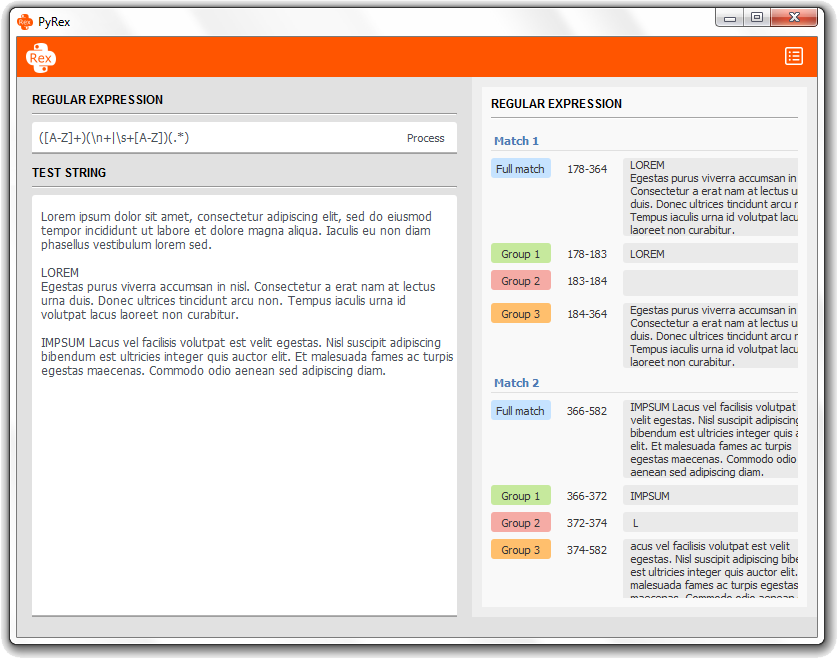
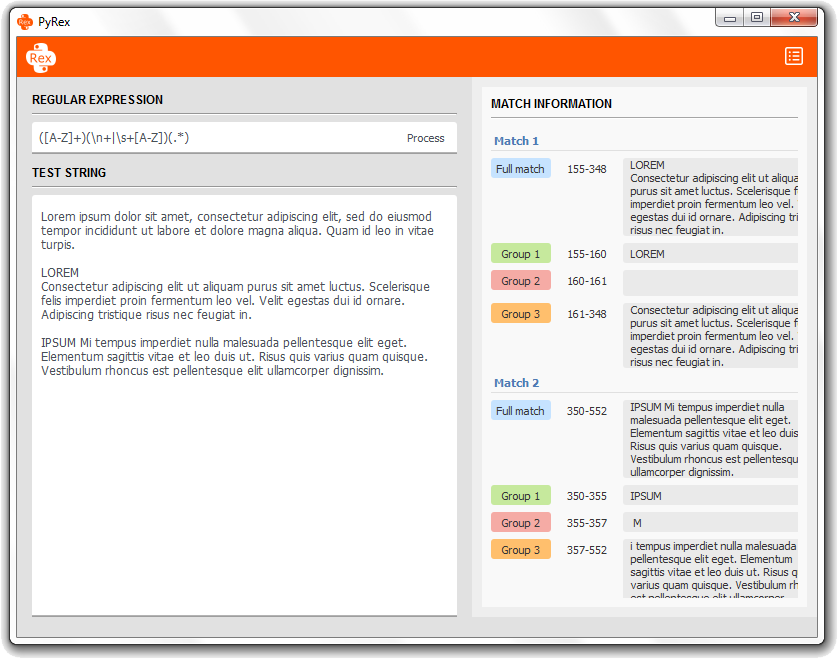
Add files via upload
Match information label renamed

diff --git a/mainGUI.py b/mainGUI.py
@@ -360,7 +360,7 @@ class Ui_MainWindow(object):
         self.ProcessPushButton.setShortcut(_translate("MainWindow", "Return"))
         self.label_2.setText(_translate("MainWindow", "TEST STRING"))
         self.TestStringTextEdit.setPlaceholderText(_translate("MainWindow", "insert your test string here"))
-        self.label_3.setText(_translate("MainWindow", "REGULAR EXPRESSION"))
+        self.label_3.setText(_translate("MainWindow", "MATCH INFORMATION"))
 import src_rc
 
 
